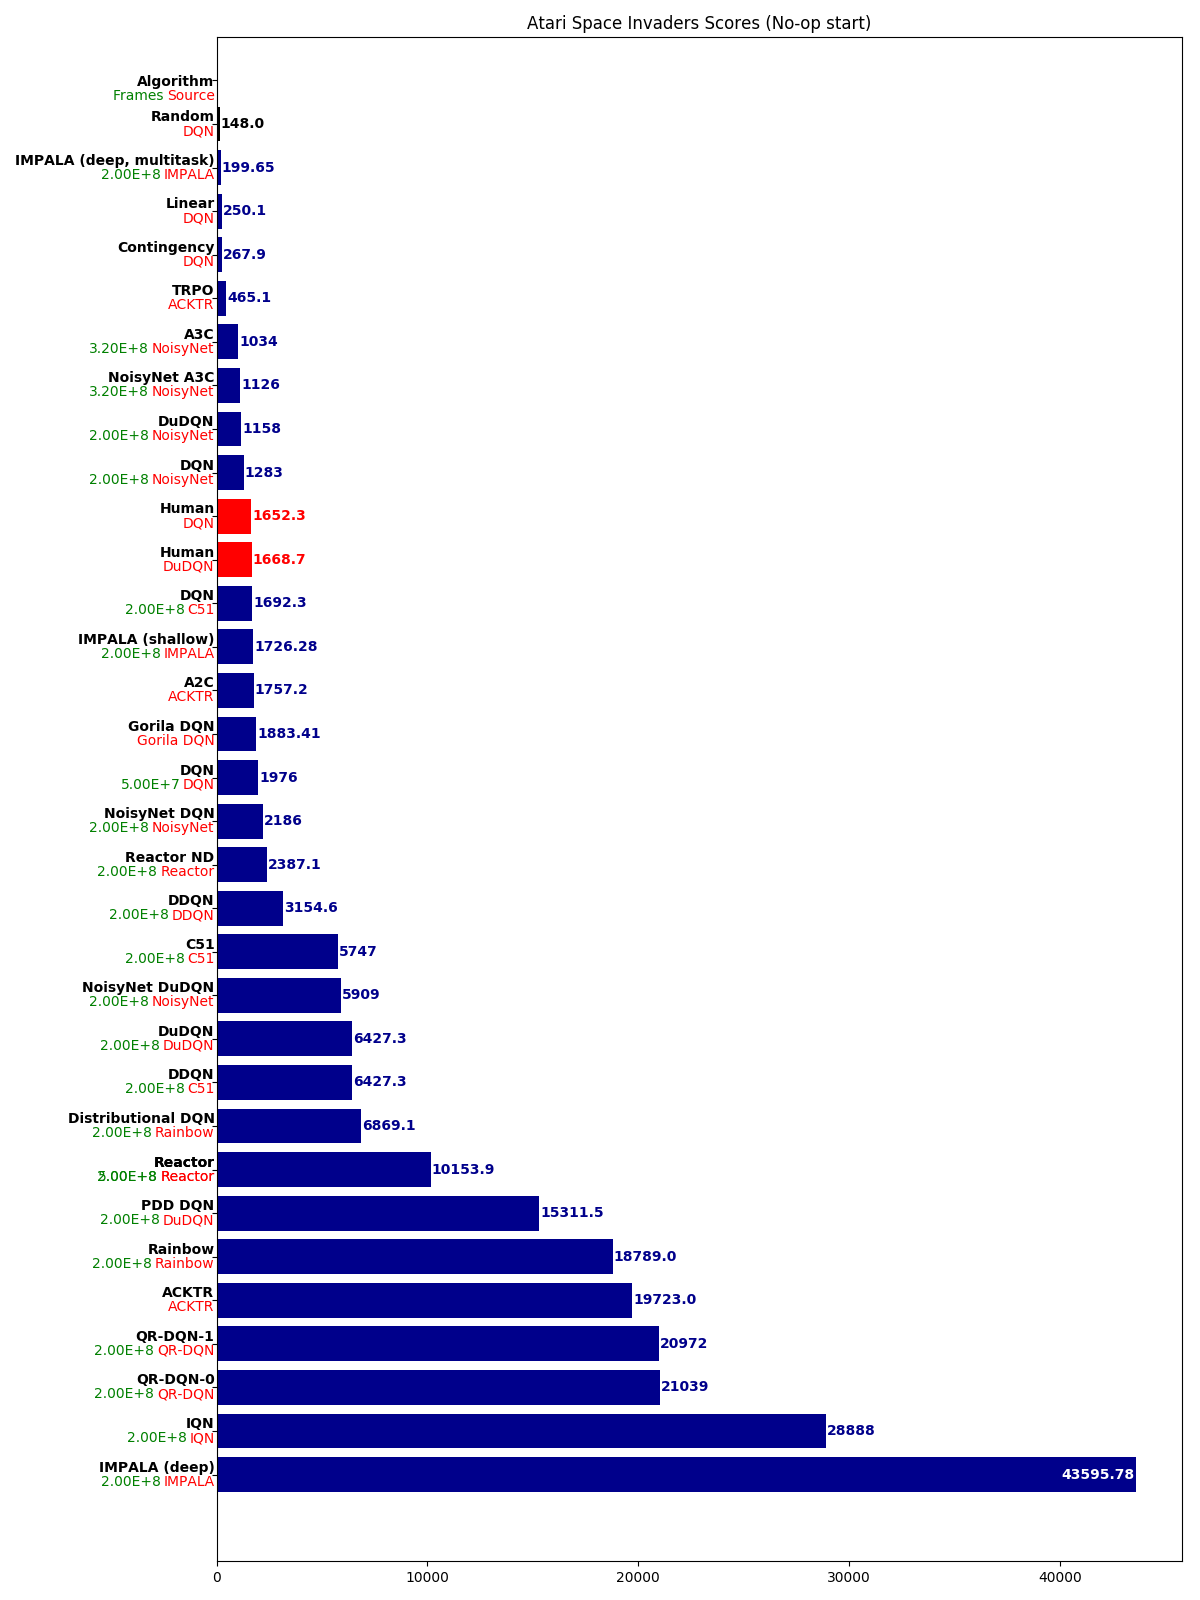
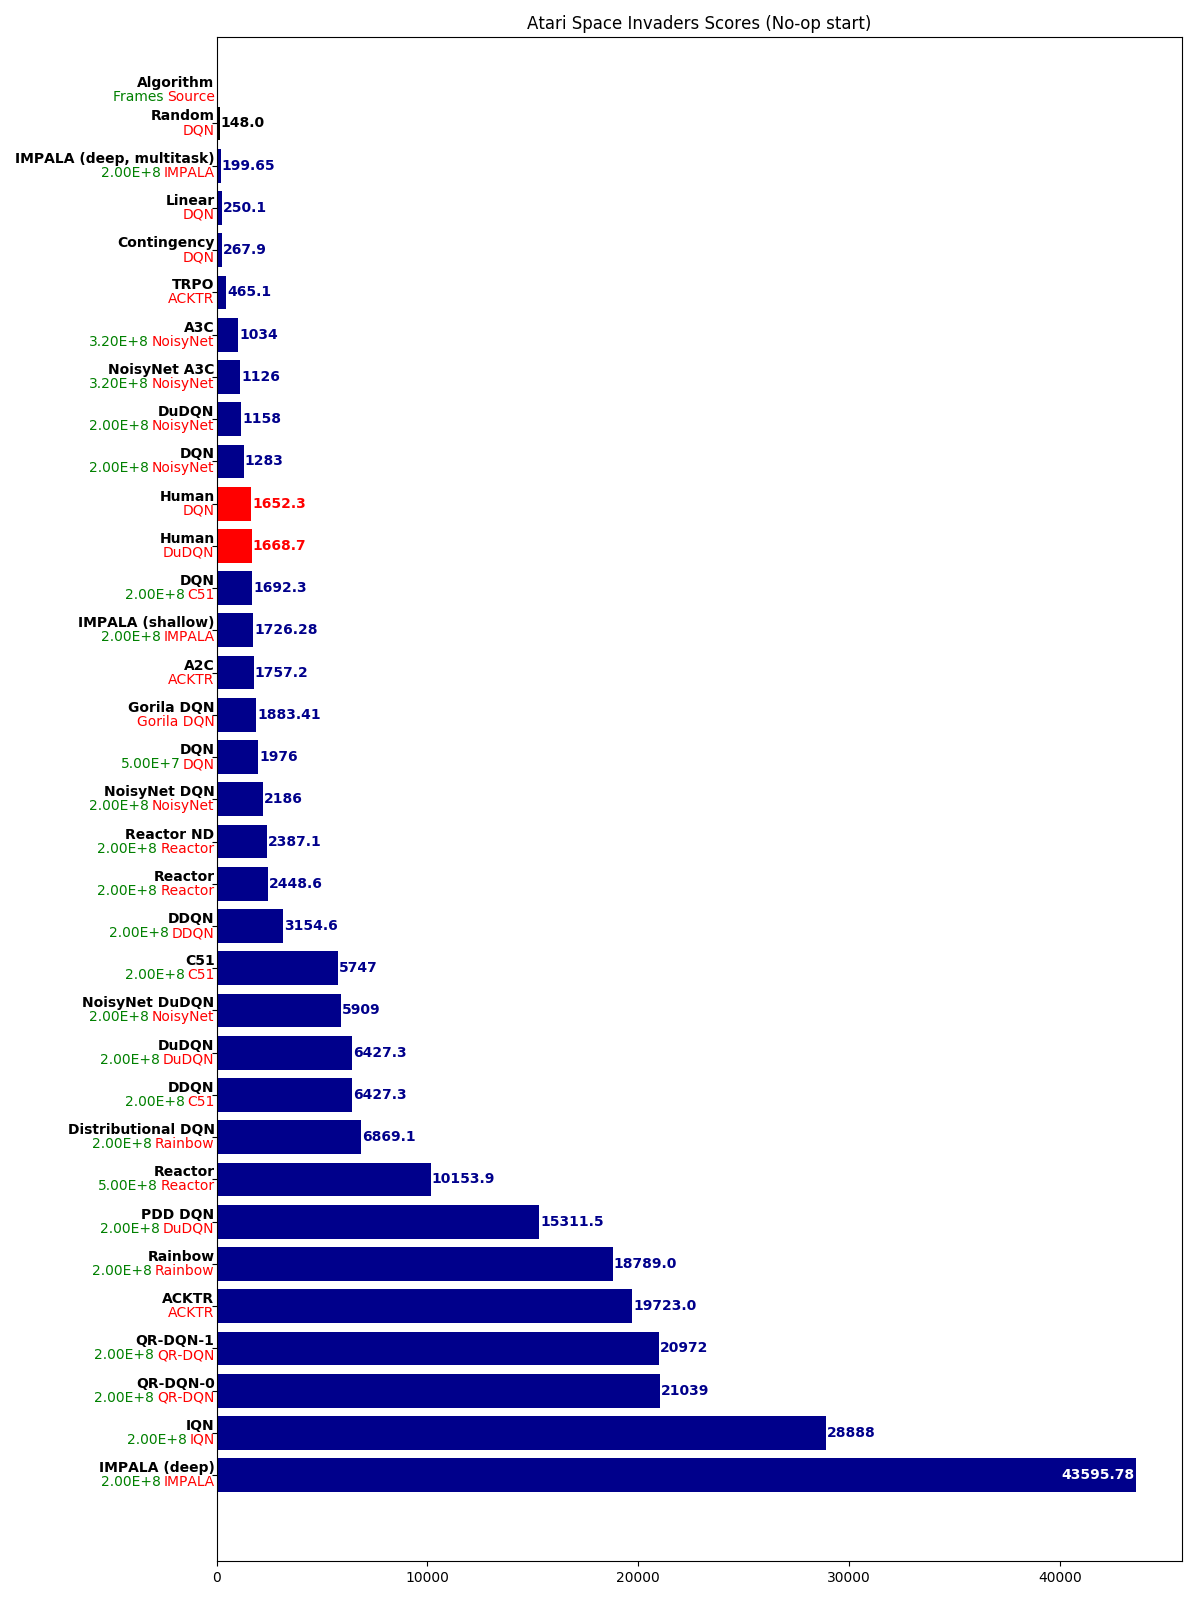
Allow duplicate algorithms for barplots

Changed region(s): [[0.0308, 0.0312, 0.5858, 0.9062], [0.6783, 0.875, 0.74, 0.9062]]

diff --git a/example_plot.py b/example_plot.py
@@ -142,19 +142,15 @@ def env_barplot(filter, plot_title, plot_name):
 def entries_to_labels_scores(entries):
     """
     Convert entries to labels and scores for barplot.
+
+    NOTE The labels only exist to discern entries: the actual labels are
+    set in set_label_legends.
     """
     nicknames = [entry['algo-nickname'] for entry in entries]
 
-    labels = []
     scores = []
     colors = []
     for entry in entries:
-        label = entry['algo-nickname']
-
-        # Add source info if needed
-        if nicknames.count(entry['algo-nickname']) > 1:
-            label += ' (From {})'.format(entry['source-nickname'])
-
         # Special color for 'Human' and 'Random'
         if entry['algo-title'] == 'Human':
             color = 'red'
@@ -162,13 +158,11 @@ def entries_to_labels_scores(entries):
             color = 'black'
         else:
             color = 'darkblue'
-
-        labels.append(label)
         scores.append(entry['score'])
 
         colors.append(color)
 
-    return labels, scores, colors
+    return list(range(len(scores))), scores, colors
 
 
 def main():
